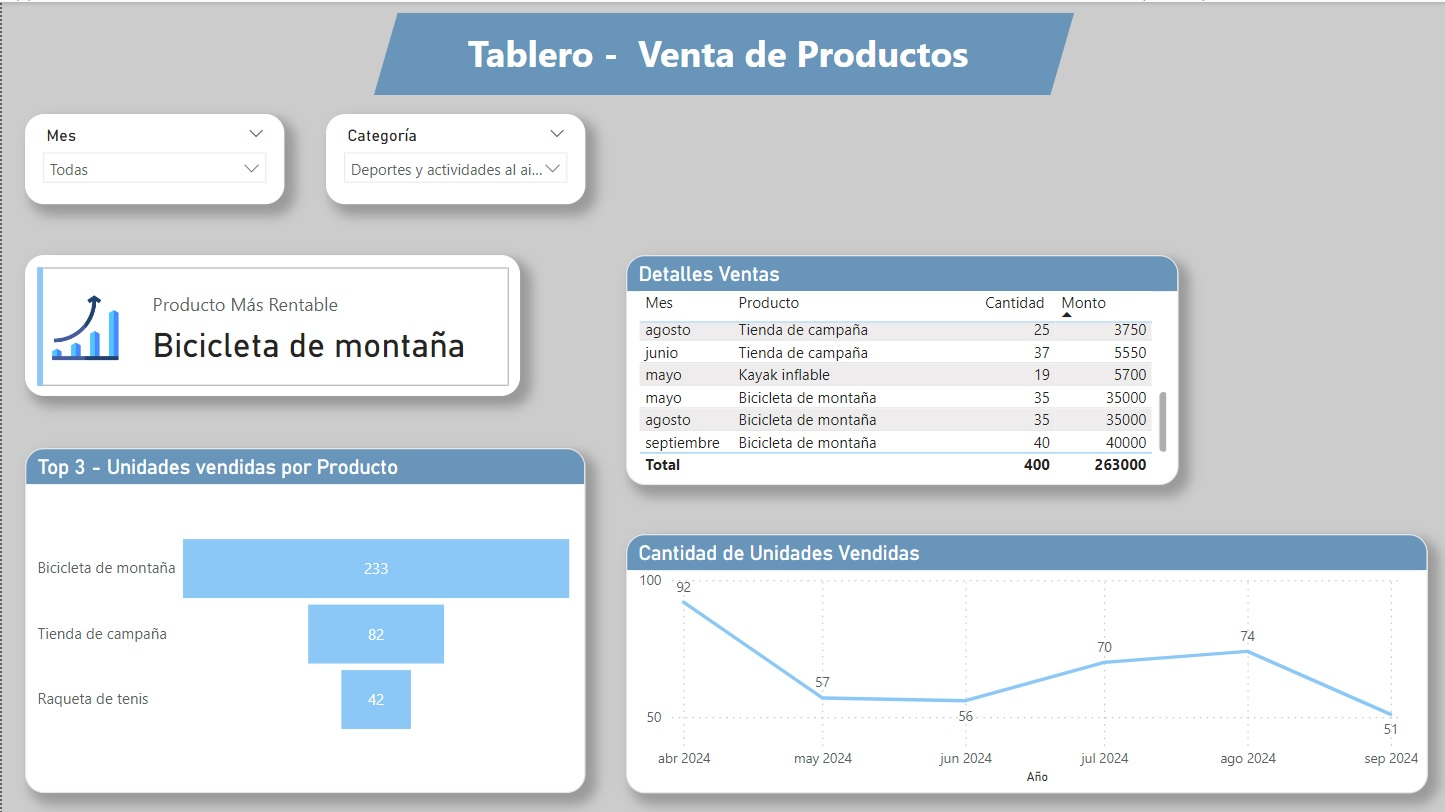
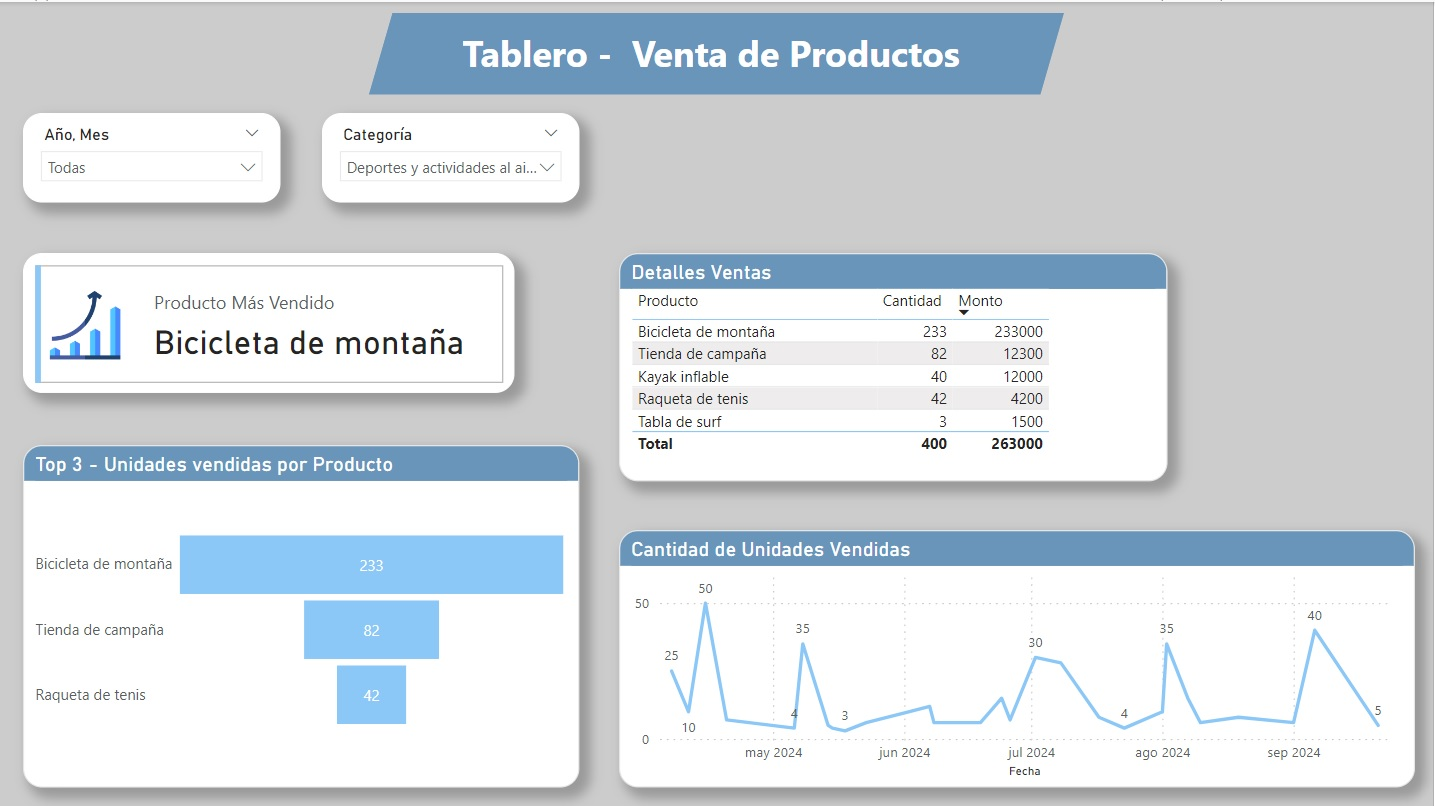
Subiendo archivos iniciales del portafolio

diff --git a/portfolio-details5.html b/portfolio-details5.html
@@ -132,9 +132,8 @@
             <div class="portfolio-description" data-aos="fade-up" data-aos-delay="300">
               <h2>Detalles</h2>
               <p>
-                En el DAX que desarrollé, comienzo definiendo una variable llamada MaxRentabilidad, donde utilizo la función MAXX para calcular la rentabilidad de cada producto. Para ello, aplico ALL('Ventas'[Producto]), lo que me permite evaluar todos los productos sin ningún filtro aplicado. Calculo la rentabilidad restando el costo total de los productos vendidos del monto total de ventas; es decir, sumo el monto total vendido con SUM('Ventas'[Monto total]) y le resto el costo, que se obtiene multiplicando el precio unitario (SUM('Ventas'[Precio unitario])) por la cantidad de unidades vendidas (SUM('Ventas'[Cantidad de unidades])).
-
-                Una vez que tengo la rentabilidad máxima almacenada en MaxRentabilidad, utilizo CALCULATE para identificar el producto que corresponde a esa rentabilidad. Empleo FIRSTNONBLANK para devolver el nombre del producto asociado a la rentabilidad máxima, buscando en la columna 'Ventas'[Producto] con el filtro de MaxRentabilidad. De esta manera, este DAX me permite identificar el producto que genera la mayor rentabilidad en el conjunto de datos de ventas.              </p>
+                Desarrollé este DAX para identificar el producto más vendido. Primero, uso la función TOPN para obtener el producto con el mayor monto de ventas. Para hacerlo, creo una nueva columna con ADDCOLUMNS, que calcula el total de ventas por producto utilizando CALCULATE(SUM(Ventas[Monto total])). Luego, con TOPN, selecciono el producto con el mayor total de ventas en orden descendente. Finalmente, uso SELECTCOLUMNS para devolver solo el nombre de ese producto.
+              </p>
             </div>
           </div>
 
